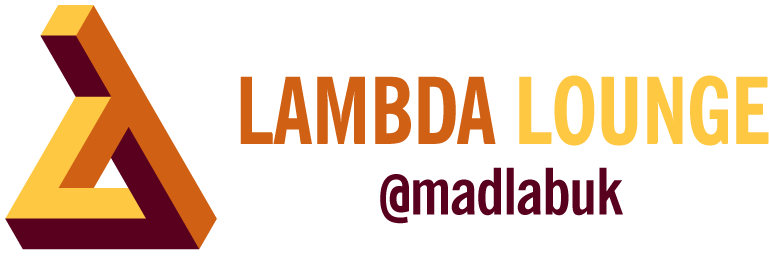
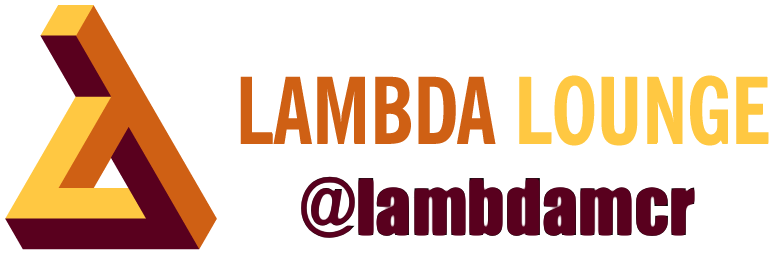
Fix up and add May talk
Various tweaks including:

 - added May talk placeholder
 - added Call for Speakers
 - simplified date extraction for posts, fixed tabbed navigation
 - tweaked contact page
 - updated image with @lambdamcr twitter and slightly shrank

Changed region(s): [[0.3745, 0.6316, 0.9051, 0.9023]]

diff --git a/_layouts/default.html b/_layouts/default.html
@@ -16,8 +16,8 @@ lang="en">
   <title>The Manchester Lambda Lounge</title>
   <link rel="stylesheet" href=
   "/assets/css/visitor-8757bb2141ec97edc13d7233f887bb56.min.css">
-  <link rel="stylesheet" href="/assets/css/flavour.css">
-  <link rel="icon" href="/assets/img/lambdalounge.png">
+  <link rel="stylesheet" href="{{ site.baseurl }}/assets/css/flavour.css">
+  <link rel="icon" href="{{ site.baseurl }}/assets/img/lambdalounge.png">
   <link rel="stylesheet" href=
   "/assets/css/custom-ec9f787c-9c88-4370-a818-9ea934bd4298.css">
   <style>
@@ -25,8 +25,8 @@ lang="en">
   </style>
   <script type="text/javascript" async src=
   "http://www.google-analytics.com/ga.js"></script>
-  <script src="/assets/js/modernizr.min.js"></script>
-  <script src="/assets/js/respond.min.js"></script>
+  <script src="{{ site.baseurl }}/assets/js/modernizr.min.js"></script>
+  <script src="{{ site.baseurl }}/assets/js/respond.min.js"></script>
   <style type="text/css">
   div.c8 {min-height: 1050.5px;}
   span.c7 {font-style: italic;}
@@ -44,22 +44,22 @@ lang="en">
       <div class="container">
         <ol class="content fullwidth column">
           <li>
-            <a href="/contact-us">Contact us</a>
+            <a href="{{ site.baseurl }}/contact-us">Contact us</a>
           </li>
           <li>
-            <a href="/">Meetings</a>
+            <a href="{{ site.baseurl }}/">Meetings</a>
           </li>
           <li>
-            <a href="/about-us">About us</a>
+            <a href="{{ site.baseurl }}/about-us">About us</a>
           </li>
           <li>
-            <a href="/fp">What is FP?</a>
+            <a href="{{ site.baseurl }}/fp">What is FP?</a>
           </li>
           <li>
-            <a href="/event-archive">Event archive</a>
+            <a href="{{ site.baseurl }}/event-archive">Event archive</a>
           </li>
           <li>
-            <a href="/doc/conduct">Code of Conduct</a>
+            <a href="{{ site.baseurl }}/doc/conduct">Code of Conduct</a>
           </li>
         </ol>
       </div>
@@ -71,35 +71,34 @@ lang="en">
           "Logo">
             <div class="content fullwidth column">
               <figure>
-                <img width="33%" src="/assets/ll.resized.png" alt=
-                "The Lambda Lounge">
+                 <a href="https://twitter.com/lambdamcr">
+                    <img width="75%" src="{{ site.baseurl }}/assets/ll.resized.png" alt="The Lambda Lounge">
+                 </a>
               </figure>
             </div>
             <div class="content fullwidth column"></div>
           </div>
         </div>
       </section>
-    </div>
 
-    <div>
        {{ content }}
     </div>
 
   <footer>
     <div class="container content fullwidth column">
-      <small>Copyright © 2016 The Lambda Lounge. All rights
+      <small>Copyright © 2017 The Lambda Lounge. All rights
       reserved except as indicated.<br>
       Made by The Lambda Lounge with help from <a href=
       "http://stardotstar.com/">Stardotstar</a></small>
     </div>
   </footer>
-  <script src="/assets/js/jquery.min.js"></script> 
-  <script src="/assets/js/jquery-ui.min.js"></script> 
+  <script src="{{ site.baseurl }}/assets/js/jquery.min.js"></script> 
+  <script src="{{ site.baseurl }}/assets/js/jquery-ui.min.js"></script> 
   <script>
-  window.jQuery || document.write('<script src="/assets/js/jquery.min.js"><\/script>')    
+window.jQuery || document.write('<script src="{{ site.baseurl }}/assets/js/jquery.min.js"><\/script>')    
   </script> 
   <script>
-  window.JSON || document.write('<script src="/assets/js/json2.min.js"><\/script>')    
+window.JSON || document.write('<script src="{{ site.baseurl }}/assets/js/json2.min.js"><\/script>')    
   </script> 
   <script src=
   "/assets/js/visitor-74a202b717185ed2478326ed8e7e5d61.js"></script>

diff --git a/_layouts/post-index.html b/_layouts/post-index.html
@@ -1,30 +1,31 @@
 ---
 layout: default
 ---
-    <section id="jam_207" class="">
-      <div class="container" id="meetings">
-        <div class="chunk title content fullwidth column" id=
-        "jam_208" data-tabname="Title">
-          <h2>Meetings</h2>
-        </div>
-      </div>
-    </section>
-    <section data-behaviour="tabbed" id="jam_209" class="">
-      <div class="container c2" id="meetings">
+ <section id="jam_207" class="">
+   <div class="container" id="meetings">
+     <div class="chunk title" id="jam_208" data-tabname="Title">
+       <h2>Meetings</h2>
+     </div>
+   </div>
+ </section>
 
-        {% for post in site.posts %}
-        <div class="chunk event active content fullwidth column c1"
-             id="{{ post.id }}"
-             data-tabname="{{ post.date_tab }}">
+ <section data-behaviour="tabbed" id="jam_209" class="">
+   <div class="container" id="meetings">
+
+     {% for post in site.posts %}
+     <div class="chunk event {% if forloop.first %}active{% endif %}"
+          id="{{ post.id | slugify }}"
+          data-tabname="{{ post.date | date: "%d %b %Y" }}">
+        <div class="content fullwidth column">
           <a href="{{ post.url }}#meetings">
-          <div class="date">
-             <div class="month">{{ post.month }} </div>
-             <div class="day"> {{ post.day }} </div>
-          </div>
+             <div class="date">
+                <div class="month">{{ post.date | date: "%b" }} </div>
+                <div class="day"> {{ post.date | date: "%d" }} </div>
+             </div>
           </a>
-          <div>
-             {{ post.content }}
-          </div>
-        </div>
-        {% endfor %}
-    </section>
+          {{ post.content }}
+       </div>
+     </div>
+     {% endfor %}
+   </div>
+ </section>

diff --git a/_layouts/post.html b/_layouts/post.html
@@ -14,11 +14,13 @@ layout: default
 
         <div class="chunk event active content fullwidth column c1"
              id="{{ page.id }}"
-             data-tabname="{{ page.date_tab }}">
+             data-tabname="{{ page.date | date: "%b %d %Y" }}">
+          <a href="{{ page.url }}#meetings">
           <div class="date">
-             <div class="month">{{ page.month }} </div>
-             <div class="day"> {{ page.day }} </div>
+             <div class="month">{{ page.date | date: "%b" }} </div>
+             <div class="day"> {{ page.date | date: "%d" }} </div>
           </div>
+          </a>
           <div>
              {{ content }}
           </div>

diff --git a/_layouts/default-wrapped.html b/_layouts/default-wrapped.html
@@ -2,7 +2,7 @@
 layout: default
 ---
 
-<section id="{{ page.id }}" class="">
+<section id="{{ page.id | slugify }}" class="">
     <div class="container" id="header">
        {{ content }}
     </div>

diff --git a/_posts/2017-03-20-beauty_recursion.md b/_posts/2017-03-20-beauty_recursion.md
@@ -1,26 +1,18 @@
 ---
 layout: post
-id: beauty-recursion
-date_tab: 20 Mar 2017
-month: Mar
-day: 20
 ---
-<div>
-   <b>Discovering the beauty of recursion and pattern
-   matching</b><br>
-   <br>
-   We're meeting on Monday <b>20</b>th Mar at 7pm at
-   <b>MadLab</b> where <a href=
-   "https://twitter.com/qmacro">DJ Adams</a> will speak
-   about one of the essential features of functional
-   programming: <b>recursion.</b><br>
-   <br>
-   Moving from an imperative mindset across to a more
-   functional one requires some rewiring of your brain.
-   One of the areas where this is particularly noticeable
-   is understanding how iteration is achieved in languages
-   without explicit loop constructs. In this talk, we'll
-   look at recursion as a fundamental building block, and
-   discover how pattern matching in Haskell, Clojure, Elm,
-   Elixir and even JavaScript is a beautiful thing.
-</div>
+### Discovering the beauty of recursion and pattern matching
+
+We're meeting on Monday **20**th Mar at 7pm at
+<b>MadLab</b> where [DJ Adams](https://twitter.com/qmacro)
+will speak about one of the essential features of functional
+programming: <b>recursion.</b>
+
+Moving from an imperative mindset across to a more
+functional one requires some rewiring of your brain.
+One of the areas where this is particularly noticeable
+is understanding how iteration is achieved in languages
+without explicit loop constructs. In this talk, we'll
+look at recursion as a fundamental building block, and
+discover how pattern matching in Haskell, Clojure, Elm,
+Elixir and even JavaScript is a beautiful thing.

diff --git a/cfs.md b/cfs.md
@@ -1,0 +1,27 @@
+---
+layout: default-wrapped
+---
+
+# Call for Speakers
+
+(See [our recent announcement](https://groups.google.com/forum/#!topic/lambda-lounge-manchester/exbzHl6A470) for full details!)
+
+If you've been to any of our meetings, you'll know that we can guarantee an enthusiastic and welcoming crowd.
+We abide by a simple but effective Code of Conduct at http://www.lambdalounge.org.uk/doc/conduct
+
+And never fear, it doesn't matter whether you are an enthusiastic beginner to FP, or have multiple computer science Ph.Ds:  Just in the last 6 months we've had talks about:
+
+<ul style="list-style-type: disc; margin-left: 2em;">
+   <li>basics of recursion and pattern matching
+   <li>programming in the threaded function style
+   <li>an introduction to Elixir
+   <li>data structures of text editors
+</ul>
+
+We welcome all, and are very keen to show a good example by encouraging a diverse range of speakers!
+
+Please let us put our money where our mouth is by offering to pay for reasonable travel, food, and accommodation costs for any speakers from any traditionally under-represented groups (be it for example gender, sexuality, ethnicity, social background, or if you would otherwise be unable to attend financially).
+
+If you have any doubts about whether your topic is suitable or you have enough experience to talk, please get in touch!  If you don't feel you can carry a whole
+hour slot, we may be able to arrange a session with 2 or 3 speakers, or bring you
+into an evening of very short "lightning talks".

diff --git a/_posts/2017-05-15-iot.md b/_posts/2017-05-15-iot.md
@@ -1,0 +1,29 @@
+---
+layout: post
+---
+### The Functional Internet of Things
+
+We're meeting on Monday **15**th May at 7pm at
+<b>MadLab</b> to talk about how Functional Programming
+can be used to interact with the Internet of Things.
+
+Firstly, Qambar Raza ([@QambarRaza](http://twitter.com/QambarRaza)) (BBC), who is starting an
+exciting project using the ESP8266 IC, Clojure, and Firmata and is
+[blogging][qr-blog] all the way up to his talk and demo at LambdaLounge.
+
+Other speakers TBC: could <b>you</b> get involved?
+
+Perhaps you've written some dataflow based code on the Raspberry PI with NodeRED?
+Or you've been experimenting with Haskell and hArduino?
+Or have you been sneaking Functional concepts into C++ code on a PIC?
+
+Whether you are enthusiastically tinkering on a hobby project, or have used
+these technologies in a successful enterprise, we'd love to hear from you!
+
+We're really keen to get a diverse range of speakers, from a wide range of
+backgrounds and experience, whether you're a relative newcomer to functional
+programming, a veteran developer, or an academic, we always provide a warm
+welcome! See our [call for speakers](/cfs) for more details or ping us at
+[@lambdamcr](https://twitter.com/lambdamcr)!
+
+[qr-blog]: http://qambarraza.com/2017/04/01/functional-programming-with-iot-fiot-day-1/

diff --git a/_posts/2015-05-18-javascript.md b/_posts/2015-05-18-javascript.md
@@ -1,27 +1,22 @@
 ---
 layout: post
-id: jam_214
-published: true
-date_tab: 18 May 2015
-month: May
-day: 18
 ---
-<h3>Calling all Javascripters!</h3><br>
+### Calling all Javascripters!
+
 This Monday we have two talks talking about how to write
 <b>better Javascript</b> by using functional programming
-techniques.<br>
-<br>
+techniques.
+
 Firstly <a href="https://twitter.com/matt_p_cannon"
 target="_self">Matthew Cannon</a> will tell us about how
 the functional features of Javascript and the lodash
-framework helped deoderise his nodejs code.&nbsp;<br>
-<br>
+framework helped deoderise his nodejs code.
+
 This will be followed by <a href=
 "http://twitter.com/RickMoynihan" target="_self">Rick
 Moynihan</a> giving a brief talk and discussion on why
 Javascripters might want to learn other functional
-languages.<br>
-<br>
+languages.
+
 We're meeting at the usual time of <b>7pm</b>
-<b>@madlabuk</b>, so we'll see you there!<br>
-</div>
+<b>@madlabuk</b>, so we'll see you there!

diff --git a/_posts/2015-06-15-rust.md b/_posts/2015-06-15-rust.md
@@ -1,13 +1,8 @@
 ---
 layout: post
-id: jam_215
-published: true
-date_tab: 15 Jun 2015
-month: Jun
-day: 15
 ---
-<h3>Introducing Rust</h3>
-<div>
+### Introducing Rust
+
 This Monday at the usual time of <b>7pm</b>, <a href=
 "https://twitter.com/michaelpjones" target=
 "_self">Michael Jones</a> will introduce the <a href=
@@ -16,9 +11,8 @@ programming language</a> from Mozilla with an overview
 of the goals of the project, what has been achieved so
 far and a focus on some of the functional influences in
 the language.
-</div><br>
+
 Rust is a systems programming language, that is gaining
 traction.&nbsp; Its features include an innovative borrow
 checker, and many zero-cost abstractions to ensure type
-and memory safety.<br>
-</div>
+and memory safety.

diff --git a/event-archive.md b/event-archive.md
@@ -889,11 +889,11 @@ layout: default
        Haskell is best known for it's ability to lock up side
        effects where they belong, in an IO::Monad; preventing
        them from polluting your program with pain and
-       non-determinism.<a href="/downloads/Haskell.pdf">The
+       non-determinism.<a href="{{ site.baseurl }}/downloads/Haskell.pdf">The
        slide</a><a href="downloads//Haskell.pdf">s</a> for this
        talk can be downloaded below.<br>
        <br>
-       <p><a href="/downloads/Haskell.pdf" class=
+       <p><a href="{{ site.baseurl }}/downloads/Haskell.pdf" class=
        "buttonise">Download</a></p>
      </div>
      <div class="chunk event content fullwidth column c1" id=

diff --git a/_posts/2016-10-17-elixir.md b/_posts/2016-10-17-elixir.md
@@ -1,16 +1,10 @@
 ---
 layout: post
-id: elixir
-published: true
-date_tab: 17 Oct 2016
-month: Oct
-day: 17
 ---
-</div><span>This Monday at 7pm Chi-chi Ekweozor is giving
+<span>This Monday at 7pm Chi-chi Ekweozor is giving
 a talk on <strong>the soft real-time</strong> aspects of
 Elixir/Phoenix and its web sockets implementation (aka
 Phoenix channels) - which was the main draw for building
 a real-time Q&amp;A service with it over at <a href=
 "http://assenty.com/" rel="nofollow">assenty.com</a>.
 And, yes, there will be a live demo!</span>
-</div>

diff --git a/_posts/2015-09-20-show-and-tell.md b/_posts/2015-09-20-show-and-tell.md
@@ -1,10 +1,5 @@
 ---
 layout: post
-id: show-and-tell
-published: true
-date_tab: 20 Sep 2015
-month: Sep
-day: 20
 ---
 <h3>Show and Tell<br></h3>
 <p>The lambda lounge this Monday are doing a show and
@@ -29,4 +24,3 @@ just try and keep them relevant to <b>computer
 science</b> and/or <b>PLT</b>.&nbsp;</p>
 <p><b>Don't worry if you don't have anything to bring</b>
 - just come and join the conversations.<br></p>
-</div>
